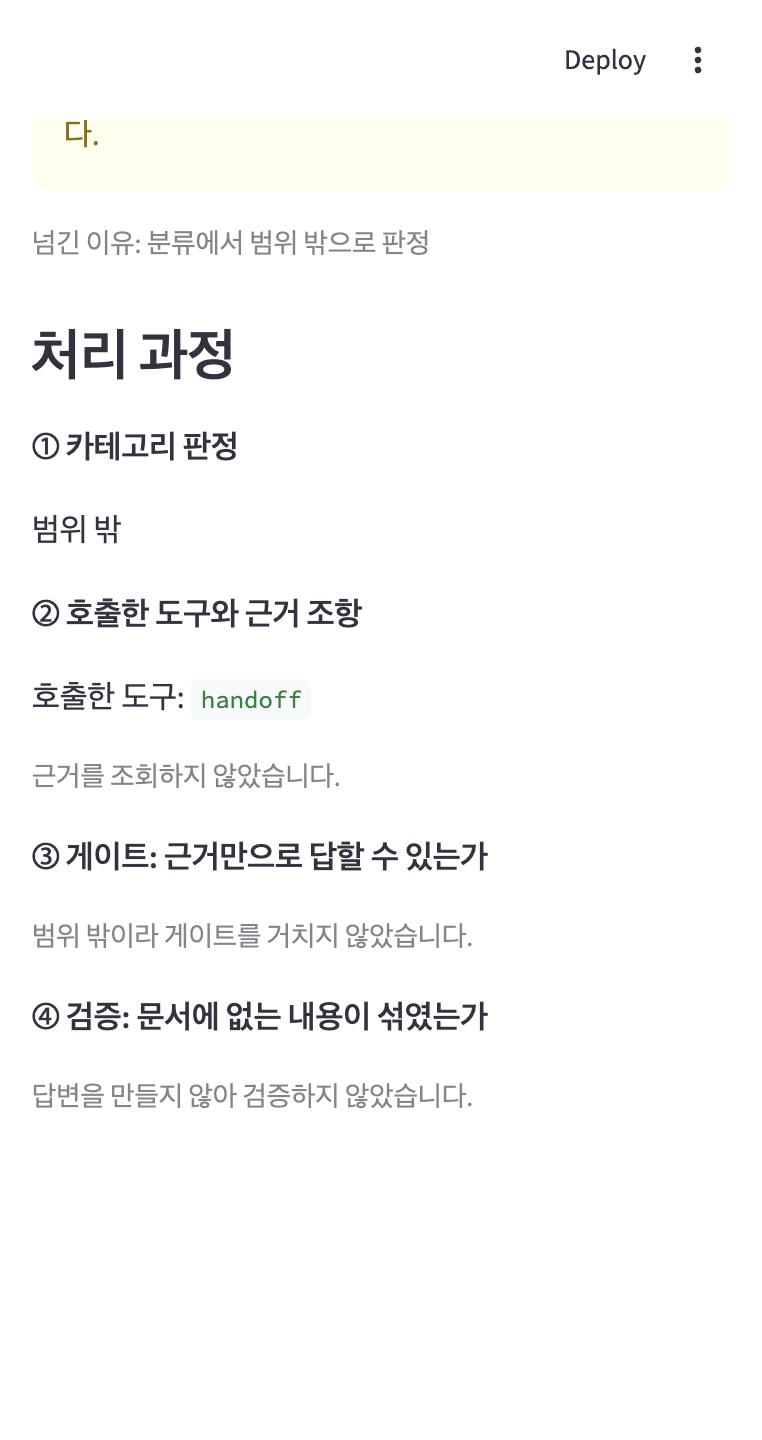
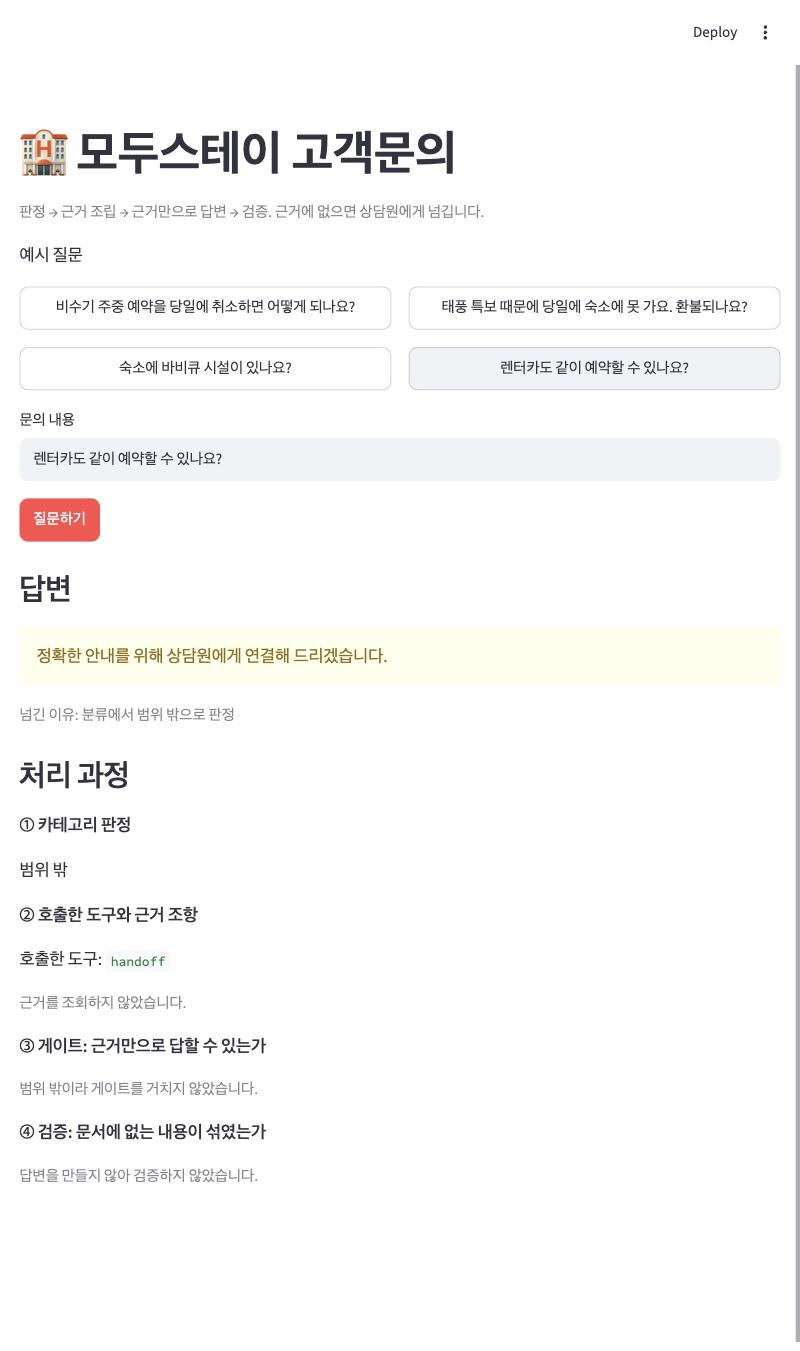
WU-12: REPORT.md 작성, 범위 밖 캡처 교체, 최종 오답 분석 보강

diff --git a/REPORT.md b/REPORT.md
@@ -1,0 +1,270 @@
+# REPORT — 모두스테이 고객문의 라우팅 에이전트
+
+> 입력 하나 → ① 카테고리 판정 → ② 카테고리별 근거 조립 → ③ 근거만으로 답변 → ④ 검증, 모르면 상담원에게 넘기기.
+> 가상 숙박 예약 플랫폼 **모두스테이**의 고객문의를 소재로 이 구조를 구현하고 성능을 숫자로 측정했다.
+
+**최종 성능** (최종 설정을 4회 측정한 평균): 도구 호출 적절성 **0.950**, 답변 적절성 **0.938**. 넘겨야 할 문항에서 지어낸 답은 **0건**.
+
+| 문서 | 내용 |
+|---|---|
+| [PRD.md](PRD.md) · [TECH_SPEC.md](TECH_SPEC.md) | 요구 사항 · 기술 명세 |
+| [WORK_UNITS.md](WORK_UNITS.md) · [FINAL_CHECKLIST.md](FINAL_CHECKLIST.md) | 단위 작업과 완료조건 · 제출 전 점검표 |
+| [results/ANALYSIS.md](results/ANALYSIS.md) | 회차별 오답 분석 원본 |
+
+---
+
+## 1. 주제와 근거 문서
+
+### 무엇을 골랐나
+숙박 예약 플랫폼의 고객문의 응대. 근거 문서는 [docs/policy_modustay.md](docs/policy_modustay.md)이고 조항은 22개다.
+- **공정거래위원회 「소비자분쟁해결기준」 숙박업 기준** (8개 조항): 고객 사정 취소 환급표, 숙소 사정 취소 배상표, 천재지변·감염병 기준, 결제 후 24시간 무위약금 취소(2024-12 개정)
+- **모두스테이 보충 정책** (14개 조항): 공정위 문서에 없는 예약·결제, 체크인·이용규칙, 객실 하자·오버부킹 처리 절차
+
+원문을 어디서 확인했는지는 [docs/sources.md](docs/sources.md)에 적었다.
+
+### 왜 골랐나
+- **그럴듯한 오답이 많은 영역이다.** "보통 하루 전까지 무료 취소", "성수기 표시가 없으면 비수기" 같은 상식형 답이 실제 기준과 다르다. 문서 없이 답하면 틀리기 쉬워서, 검증 단계가 왜 필요한지 잘 드러난다.
+- **비율·기간 같은 숫자가 많다.** 숫자 대조로 지어낸 답을 기계적으로 잡아내는 검증을 설계하기 좋다.
+- **공공 문서라 공개 저장소에 올려도 저작권 부담이 적다.**
+
+### 문서를 옮기며 내린 판단
+- 모두스테이는 예약할 때 전액을 결제한다고 가정했다. 그래서 공정위 기준의 "계약금 환급"을 "전액 환불"로 옮겼다.
+- 기본 성수기 기간(7.15~8.24, 12.20~2.20)은 오래된 기사에서만 확인돼 현행 고시와 같은지 알 수 없었다. 그래서 공정위 조항이 아니라 `보충`(모두스테이 자체 정의)으로 표시했다.
+
+---
+
+## 2. 카테고리 설계
+
+### 카테고리와 나눈 근거
+문서의 조항 구분을 기준으로 나눴다. 카테고리끼리 보는 조항이 겹치지 않아야 "도구 호출 적절성"을 깔끔하게 잴 수 있기 때문이다.
+
+| 카테고리 | 도구 | 조항 ID | 나눈 근거 |
+|---|---|---|---|
+| 예약·결제 | `get_booking` | BKG-01~05 | 이용 **전** 절차(확정·결제·예약자 정보). 공정위 문서에 없어 모두 보충 |
+| 취소·환불 | `get_refund` | REF-01~06 | **고객 사정** 취소. 공정위 환급표(고객 귀책) + 환불 절차 |
+| 체크인·이용규칙 | `get_stay_rules` | STY-01~05 | 이용 **중** 규칙. 숙소마다 다를 수 있는 항목이 많아 "문서에 없음" 문의가 나오기 쉽다 |
+| 분쟁·보상 | `get_dispute` | DSP-01~06 + REF-01 | **숙소 사정·불가항력·시설 문제**. 공정위 배상표(사업자 귀책) + 천재지변·감염병 |
+| 범위 밖 | `handoff` | — | 모두스테이 숙박 예약·이용 고객의 문의가 아닌 것 |
+
+### 경계 규칙
+- **같은 "취소"도 누구 사정인지로 나눈다.** 고객 사정이면 취소·환불, 숙소 사정·천재지변이면 분쟁·보상이다. 과제 예시처럼 "변경·취소"와 "환불"로 나누면 두 카테고리가 같은 환급표를 보게 되기 때문이다.
+- **공유 조항(EXTRA_MAP):** 분쟁·보상의 배상표는 성수기·주말 정의(REF-01) 없이는 읽을 수 없다. 그래서 `get_dispute`가 REF-01도 함께 돌려준다. 도구 호출은 `get_dispute` 하나다.
+- **두 카테고리 문의:** 예약 변경(BKG-05)은 "취소 후 재예약하며 취소 기준이 적용된다"는 내용이다. 그래서 변경 수수료까지 묻는 문의는 `get_booking`과 `get_refund`를 함께 호출해야 정답이다.
+
+매핑은 [context.py](context.py)의 `PREFIX_CATEGORY` · `CATEGORY_TOOL` · `EXTRA_MAP`이 그대로 구현한다. 조항 ID의 접두어가 곧 카테고리다.
+
+---
+
+## 3. 평가셋 설계
+
+### 구성
+[data/goldenset.json](data/goldenset.json)에 **평가용 20건**과 **예시용 5건**을 담았다.
+
+| 카테고리 | 평가 문항 | 구성 |
+|---|---|---|
+| 예약·결제 | 4 | 답변 3 (그중 1건은 두 카테고리 문의 E03) + 문서에 없음 1 |
+| 취소·환불 | 4 | 답변 3 + 문서에 없음 1 |
+| 체크인·이용규칙 | 4 | 답변 3 + 문서에 없음 1 |
+| 분쟁·보상 | 4 | 답변 3 + 문서에 없음 1 |
+| 범위 밖 | 4 | 모두 넘기기 |
+
+넘기는 것이 정답인 문항은 8건이다. 범위 밖형 4건과 문서에 없음형 4건으로 나뉜다.
+
+### 기대 도구를 정한 기준
+| 문항 유형 | 기대 도구 | 이유 |
+|---|---|---|
+| 답할 수 있는 문의 | 해당 카테고리 도구 | 근거 조항이 있는 카테고리 |
+| 두 카테고리 문의 | 두 도구 모두 | 한쪽 근거만으로는 답이 완성되지 않는다 |
+| 카테고리는 맞지만 문서에 답이 없음 | `get_xxx` + `handoff` | **근거를 읽어 보고 나서** 넘겨야 정답이다 |
+| 범위 밖 | `handoff` | 근거를 조회할 필요가 없다 |
+
+### 필수 사실과 금지 표현을 정한 기준
+- **필수 사실:** 근거 조항에 적힌 사실을 그대로 옮겼다. 문항마다 `note`에 근거 조항 ID를 적어 두었다.
+- **금지 표현:** 문서를 안 읽었을 때 나오기 쉬운 그럴듯한 오답을 넣었다.
+
+| 문항 | 금지 표현 | 문서의 사실 |
+|---|---|---|
+| E05 성수기 주말 3일 전 취소 | "50% 공제" | 60% 공제 (50%는 성수기 주중 기준) |
+| E06 어젯밤 결제, 오늘 취소 | "결제 당일에만 무료" | 결제 후 24시간 이내 무료 (당일은 2024 개정 전 기준) |
+| E07 성수기 표시 없는 8월 금요일 | "표시가 없으니 비수기" | 표시가 없으면 7.15~8.24를 성수기로 본다 |
+| E13 숙소 사정 취소 | "환불만 되고 배상은 없다" | 전액 환불 + 총요금 10% 배상 |
+| E12 주차 (문서에 없음) | "무료 주차 가능" / "주차 불가" | 문서에 없다. 어느 쪽이든 지어낸 답이다 |
+
+- **금액 계산 문항은 넣지 않았다.** "20만 원이면 얼마 돌려받아요?" 같은 질문은 답에 문서에 없는 숫자가 생겨서 숫자 대조 검증과 충돌한다.
+
+### 평가용과 예시용을 가른 방법
+- 예시용(`split: "example"`) X01~X05는 분류 few-shot과 답변 형식 예시에만 쓴다. 평가에는 쓰지 않는다. 평가 문항과 겹치는 질문은 없다.
+- **프롬프트로 평가 정보가 새는 것을 막았다.** 처음 쓴 분류 지침에 "쿠폰", "서비스 불만", "회사 연락처"가 들어 있었다. 이 단어들은 각각 E08, E16, E19를 겨냥한 것이어서 지웠다. 채점 지침의 예시 문장도 E06의 필수 사실과 거의 같아서, 평가셋에 없는 체크아웃 예시로 바꿨다.
+
+---
+
+## 4. 측정 결과
+
+### 채점기 검증 (측정 전에 먼저)
+| 검증 | 결과 |
+|---|---|
+| 모범 답안 20건 | **20/20** 1점 |
+| 일부러 틀린 답 7건 ([data/grader_negatives.json](data/grader_negatives.json)) | **7/7** 0점 |
+
+틀린 답은 네 종류로 만들었다. 숫자가 틀린 답, 필수 사실 일부를 빠뜨린 답, 지어낸 답, 개정 전 기준으로 답한 답이다. 7건 모두 의도한 이유로 0점이 나왔다. 결과는 [results/grader_validation.json](results/grader_validation.json)에 있다.
+
+### 지표
+| 지표 | 기준 (run_01) | 최종 (4회 평균) | PRD 목표 |
+|---|---|---|---|
+| 도구 호출 적절성 | 0.95 | **0.950** (0.90~1.00) | ≥ 0.85 |
+| 답변 적절성 | 0.80 | **0.938** (0.90~1.00) | ≥ 0.80 |
+| 넘기기 문항에서 지어낸 답 | 0 | **0** | 0 |
+
+### 혼동행렬 (최종 설정 80건)
+
+**① 분류** (행 = 기대, 열 = 예측)
+
+| 기대 \ 예측 | 예약·결제 | 취소·환불 | 체크인·이용규칙 | 분쟁·보상 | 범위 밖 |
+|---|---|---|---|---|---|
+| 예약·결제 | 16 | 4 ✅ | 0 | 0 | 0 |
+| 취소·환불 | 3 ❌ | 16 | 0 | 0 | 0 |
+| 체크인·이용규칙 | 0 | 0 | 16 | 0 | 0 |
+| 분쟁·보상 | 0 | 0 | 0 | 16 | 0 |
+| 범위 밖 | 0 | 0 | 0 | 0 | 16 |
+
+- 혼동은 예약·결제↔취소·환불 경계에서만 생긴다. ✅ 4건은 두 카테고리 문의(E03)라 정답이고, ❌ 3건은 E06에 예약·결제를 덧붙인 오답이다.
+- 취소·환불↔분쟁·보상(누구 사정인가)의 혼동은 0건이다. 2절의 경계 규칙이 작동했다.
+
+**② 넘기기** (양성 = 넘김)
+
+| | 실제로 넘김 | 실제로 답함 |
+|---|---|---|
+| **넘겨야 함** | TP 32 | **FN 0** (지어낸 답) |
+| **답해야 함** | FP 3 (과잉 넘김) | TN 45 |
+
+재현율은 1.00, 정밀도는 0.91이다. 답한 45건 중 43건이 답변 적절성 1점을 받았다.
+
+### 틀린 건의 원인 분류
+한 문항에 원인이 여러 개 겹치면 각각 센다. 최종 4회에서 틀린 행은 6개다(E06 3회, E02·E03·E05 각 1회).
+
+| 원인 | 기준 (run_01) | 최종 4회 (80건) | 대표 사례 |
+|---|---|---|---|
+| 사실 누락 (결론만 말함) | 3 | 0 | run_01 E07: "성수기에 해당한다"는 결론만 말하고 기준 기간 7.15~8.24를 생략 → 개선 1로 사라짐 |
+| 분류 오류 | 0 | 3 | E06: "취소 수수료" 문의에 예약·결제를 덧붙여 `get_booking`까지 호출. run_04에서는 답변이 맞았는데도 이것 때문에 도구가 오답 |
+| 게이트 오류 (답할 수 있는데 넘김) | 1 | 2 | run_03 E03: 질문에 없는 "재예약 시 요금 차이"까지 따져 넘김. run_05 E06: "24시간 이내인지 모른다"며 넘김 |
+| 검증 엄격 (인용 누락) | 0 | 1 | run_03 E06: "24시간"이 나오는 문장에 REF-02 대신 REF-01·03·04를 인용해 검증에 두 번 실패 |
+| **사실 오류 (검증 통과)** | 0 | 1 | run_05 E05: 정답 60% 대신 표의 한 줄 위 **40%**를 답함. 40%도 REF-03 안에 있는 숫자라 검증을 통과 |
+| 채점 오류 | 0 | 1 | run_04 E02: 답은 맞는데 채점기가 금지 표현을 필수 사실 목록에 섞어 "누락"으로 판정. 비교용 run_02 E10도 채점 오류 |
+
+### 개선 시도별 기록표
+| 회차 | 바꾼 것 하나 | 도구 | 답변 | 메모 |
+|---|---|---|---|---|
+| run_01 | 기준 | 0.95 | 0.80 | 사실 누락 3, 게이트 오류 1 |
+| run_02 | 답변 규칙 7: 결론과 함께 기준·조건을 쓴다 | 0.95 | 0.90 | 사실 누락 3건 해결 |
+| run_03 | 게이트: 조건을 붙여 답할 수 있으면 true | 0.90 | 0.90 | E06 게이트는 통과. 그러나 분류·인용 문제로 실패하고 E03이 회귀 |
+| run_04~06 | (개선 2 상태 3회 반복) | 평균 0.967 | 평균 0.950 | 변동 폭 확인 |
+| run_07~09 | (개선 1 상태 3회 반복, 비교용) | 평균 0.917 | 평균 0.850 | 개선 2가 더 낫다 → 유지 |
+
+run_03에서 도구 점수가 0.05 떨어졌지만, 같은 설정을 다시 재 보니 결과가 회차마다 흔들렸다(`temperature=0`이어도 그렇다). 그래서 두 설정을 각각 4회씩 쟀다. 개선 2가 두 지표 모두 평균이 높아서 유지했다. 두 설정의 4회 결과는 아래와 같다.
+
+| 설정 | 도구 평균 (범위) | 답변 평균 (범위) |
+|---|---|---|
+| 개선 1까지 | 0.925 (0.90~0.95) | 0.863 (0.80~0.90) |
+| 개선 2까지 (최종) | 0.950 (0.90~1.00) | 0.938 (0.90~1.00) |
+
+회차별 원본은 `results/run_*.json`에 있다. 문항별 분류 결과, 근거 조항, 게이트 사유, 답변, 검증, 채점 근거가 함께 담겨 있다.
+
+---
+
+## 5. 파이프라인 구조도
+
+```mermaid
+flowchart TD
+    S([START]) --> C["classify<br/>카테고리 1~2개 판정<br/>→ categories"]
+    C -->|범위 밖| H["handoff<br/>상담원 연결 고정 문구<br/>→ tools_called += handoff, handoff=True"]
+    C -->|카테고리| R["retrieve<br/>매핑표대로 코드가 도구 호출<br/>→ tools_called, context"]
+    R --> G["gate<br/>근거만으로 핵심에 답할 수 있나<br/>→ answerable, gate_reason"]
+    G -->|false| H
+    G -->|true| A["answer<br/>근거만으로 답변, 문장마다 조항 인용<br/>→ answer, retries"]
+    A --> V["verify (코드)<br/>미인용 · 모르는 인용 · 근거 없는 숫자<br/>→ verification, citations"]
+    V -->|통과| E([END])
+    V -->|실패, retries < 1<br/>위반 내역을 붙여 재생성| A
+    V -->|실패, retries ≥ 1| H
+    H --> E
+```
+
+### 상태 (State)
+```python
+class AgentState(TypedDict, total=False):
+    question: str            # 입력
+    categories: list[str]    # classify
+    tools_called: list[str]  # retrieve, handoff — 도구 호출 적절성의 채점 대상
+    context: list[Clause]    # retrieve — 판정된 카테고리 조항만 (문서 전체 X)
+    answerable: bool         # gate
+    gate_reason: str         # gate
+    answer: str              # answer / handoff
+    citations: list[str]     # verify
+    verification: dict       # verify
+    retries: int             # answer (재생성 횟수, 최대 1)
+    handoff: bool            # handoff
+```
+
+### 설계에서 지킨 것
+- **판정과 넘기기 분리:** `classify`는 카테고리만 고르고, 답할 수 있는지는 판단하지 않는다. 넘길지는 근거를 모은 뒤 `gate`가 따로 판단한다.
+- **도구는 코드가 호출:** LLM이 도구를 고르지 않는다. 그래서 "관련 없는 근거를 훑는" 일이 구조적으로 생기지 않고, 틀렸을 때 원인이 분류에 있었는지 바로 추적할 수 있다.
+- **검증은 LLM 없이 코드로:** [verify.py](verify.py)가 문장마다 인용을 확인하고, 숫자를 정규화해서 대조한다. 정규화 예는 `하루`=`1일`, `오후 3시`=`15시`, `1만원`=`10,000원`이다. 인용 ID의 숫자("02")와 질문에 나온 숫자는 대조 대상에서 뺀다.
+
+이 구조도는 `graph.get_graph().draw_mermaid()`로 출력한 노드·엣지와 일치한다.
+
+---
+
+## 6. 데모 설계
+
+`streamlit run app.py`로 실행한다. 위에는 답변이 있고, 아래에 파이프라인 순서대로 단계 패널이 펼쳐진다.
+
+| 정상 답변 | 문서에 없음 → 넘기기 | 범위 밖 → 넘기기 |
+|---|---|---|
+| ![](screenshots/01_answer.jpg) | ![](screenshots/02_no_doc_handoff.jpg) | ![](screenshots/03_out_of_scope.jpg) |
+
+### 신경 쓴 부분
+- **처리 과정을 파이프라인 순서대로 보여 준다:** ① 판정 → ② 호출한 도구·근거 조항 → ③ 게이트 → ④ 검증. 화면만 봐도 구조를 따라갈 수 있다.
+- **답변과 근거를 연결한다:** 답변이 인용한 조항은 ⭐ 표시와 함께 펼쳐 둔다. 인용하지 않은 조항은 접어 둔다. 조항마다 출처(공정위/보충)도 표시한다.
+- **넘긴 이유를 보여 준다:** 분류에서 범위 밖으로 판정했는지, 게이트에서 답할 수 없다고 판단했는지, 검증에 두 번 실패했는지를 구분해서 표시한다. 상담원에게 넘겨도 왜 넘겼는지 알 수 있다.
+- **"문서 전체가 아니라 판정된 카테고리 조항만"이라고 화면에 적었다.** 과제 요구 사항이 데모에서도 보이게 하려는 것이다.
+- **검증 결과를 세 가지 검사별로 표로 보여 준다:** 인용이 없는 문장, 근거에 없는 조항 인용, 인용 조항에 없는 숫자.
+- **예시 질문 버튼 4개:** 정상 답변, 분쟁·보상, 문서에 없음, 범위 밖 경우를 바로 눌러 볼 수 있다.
+
+---
+
+## 7. 프로젝트 회고
+
+### 가장 공들인 부분
+
+**① 평가의 공정성: 점수가 실제 실력을 반영하게 하기**
+- **평가 정보가 프롬프트로 새는 것을 두 번 잡았다.** 분류 지침의 "쿠폰·서비스 불만·회사 연락처"는 평가 문항을 미리 보고 넣은 단어였다. 채점 지침의 예시 문장은 E06의 정답과 거의 같았다. 둘 다 그대로 뒀다면 점수가 실제보다 높게 나왔을 것이다.
+- **결과를 보고 평가셋을 고치지 않았다.** E03은 결론이 맞았는데도 필수 사실("2일 전까지 전액 환불")을 말하지 않아 틀렸다. 평가셋이 엄격하다고 볼 여지도 있었지만, 결과를 보고 기준을 바꾸면 평가를 답변에 맞추는 셈이다. 그래서 평가셋 대신 답변 규칙을 고쳤다(개선 1).
+- **채점기도 검증했다.** 모범 답안이 모두 1점을 받는 것만으로는 부족하다고 봤다. 숫자가 틀린 답, 사실을 빠뜨린 답, 지어낸 답이 모두 0점을 받는지까지 확인한 뒤에 채점 결과를 믿었다.
+- **채점기의 오판도 숨기지 않았다.** E10은 답이 맞았는데 채점기가 틀렸다고 판정했다. 이를 "채점 오류"로 따로 분류해 기록했다.
+
+**② 반복 측정으로 판단하기**
+- 개선 2(게이트 완화) 직후 도구 점수가 0.95에서 0.90으로 떨어졌다. 한 번만 보면 되돌려야 할 변경이었다.
+- 그런데 바꾸지 않은 문항(E03)까지 회차마다 결과가 달라지는 것을 보고, `--repeat` 옵션을 만들어 두 설정을 같은 조건으로 4회씩 쟀다. 그러자 개선 2가 도구 +0.025, 답변 +0.075로 오히려 나았다.
+- 이 과정에서 `temperature=0`이어도 LLM 판단이 흔들린다는 것을 확인했다. 그래서 한 번 측정한 0.05 차이(20문항 중 1문항)로는 결론을 내리지 않는다는 기준이 생겼다.
+
+### 향후 보완하고 싶은 점
+- **E06(4회 중 3회 실패):** 분류가 "취소 수수료"에 예약·결제를 덧붙이는 문제와, "24시간"이 나오는 문장에 REF-02를 인용하지 않는 문제가 남아 있다. 분류 지침에 경계 사례를 하나 더 넣는 것이 다음 개선 후보다.
+- **검증기의 한계:** 숫자 대조는 "그 숫자가 인용한 조항에 있는가"만 본다. 그래서 두 가지를 못 잡는다. 하나는 "반려동물 동반 가능"처럼 숫자가 없는 지어냄이고, 다른 하나는 **조항 안의 다른 숫자를 잘못 고른 답**이다. 실제로 run_05 E05는 60% 대신 같은 표의 40%를 답했는데 검증을 통과했다. 표를 행 단위(시점·주중/주말 → 비율)로 구조화해 조건과 숫자의 짝까지 대조하거나, 문장별로 근거와 맞는지 확인하는 LLM 검증을 추가하고 싶다.
+- **평가 규모와 변동성:** 20문항에서는 1문항이 0.05라서 작은 개선을 구분하기 어렵다. 평가셋을 늘리고, 기준(run_01)도 반복 측정해서 개선 폭을 구간으로 보고하고 싶다.
+- **채점기의 흔들림:** 맞는 답을 틀렸다고 판정한 사례가 2건 있었다(E10, E02). E02는 금지 표현을 필수 사실 목록에 섞은 경우였다. 필수 사실과 금지 표현을 따로따로 채점하거나, 여러 번 채점해서 다수결로 정하는 방식으로 줄일 수 있다.
+- **금액 계산:** 지금은 숫자 대조와 충돌해서 금액 계산 문의를 받지 않는다. 계산은 코드가 하고 LLM은 그 결과를 인용하게 하면 다룰 수 있다.
+
+---
+
+## 실행 방법
+
+```bash
+git clone https://github.com/borigunbbang/my-routing-agent.git && cd my-routing-agent
+python -m venv .venv && source .venv/bin/activate
+pip install -r requirements.txt
+cp .env.example .env                    # OPENAI_API_KEY 입력
+python verify.py                        # 검증기 테스트 (API 키 불필요)
+python agent.py "체크아웃은 몇 시예요?"  # 한 건 실행
+python evaluate.py --validate-grader    # 채점기 검증
+python evaluate.py --tag baseline       # 평가 (--repeat 3 으로 반복 측정)
+streamlit run app.py                    # 데모
+```

diff --git a/results/ANALYSIS.md b/results/ANALYSIS.md
@@ -97,3 +97,14 @@ run_03에서 도구가 0.05 떨어졌지만 회차마다 결과가 흔들려서,
 
 - 재현율 32/32 = 1.00, 정밀도 32/35 = 0.91. 기준 run_01은 TP 8 · FN 0 · FP 1 · TN 11
 - 답한 45건 중 답변 1점 43건
+
+## 최종 설정 4회(run_03~06)에서 틀린 행 6개 — 직접 읽은 결과
+
+| 회차 | ID | 원인 | 내용 |
+|---|---|---|---|
+| run_03 | E03 | 게이트 오류 | 질문에 없는 "재예약 시 요금 차이"까지 따져 넘김 |
+| run_03 | E06 | 분류 오류 + 검증 엄격 | 예약·결제를 덧붙임. "24시간이 지났다면…" 문장에 REF-02를 인용하지 않아 두 번 실패 → 넘김 |
+| run_04 | E02 | 채점 오류 | 답은 정확. 채점기가 금지 표현 2개를 필수 사실 목록에 섞어 "누락" 판정 |
+| run_04 | E06 | 분류 오류 | 답변은 정확(답변 1점). 예약·결제를 덧붙여 `get_booking` 호출 → 도구만 오답 |
+| run_05 | E05 | **사실 오류 (검증 통과)** | 정답 60% 대신 표의 한 줄 위 40%를 답함. 40%도 REF-03에 있어 숫자 대조를 통과 — 검증기의 사각지대 |
+| run_05 | E06 | 분류 오류 + 게이트 오류 | 예약·결제를 덧붙이고, 게이트가 "24시간 이내인지 모른다"며 넘김 |
